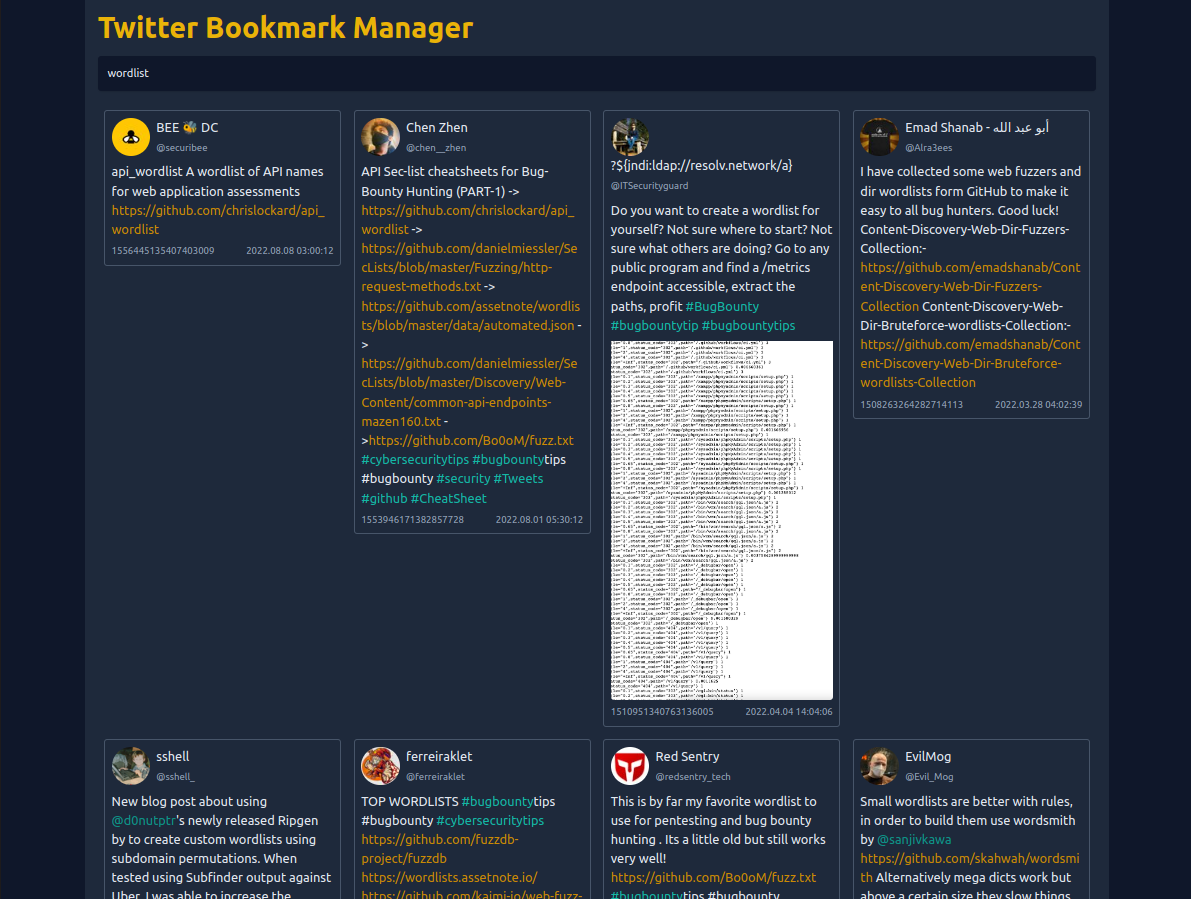
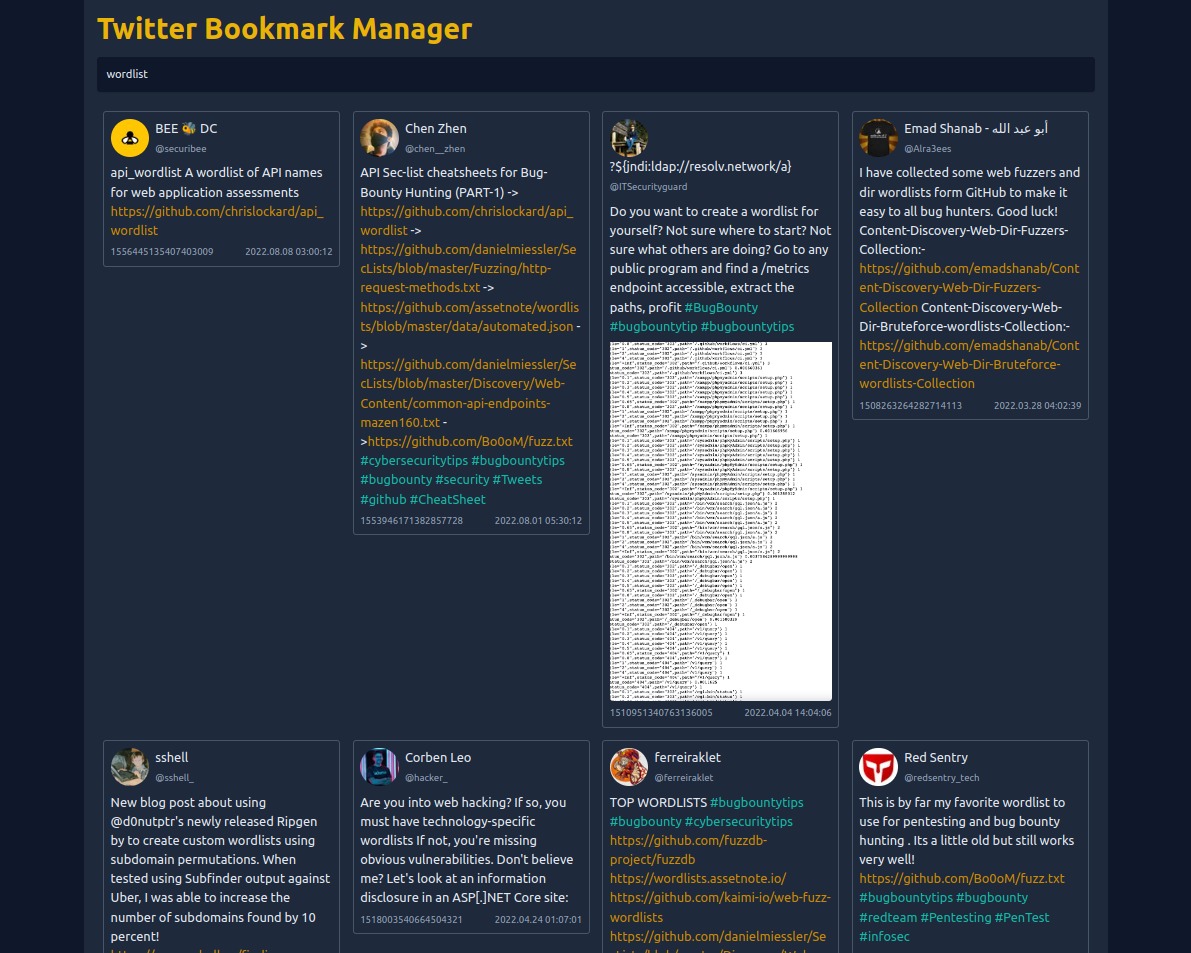
Identical Hashtag and Reference linking fixed

Changed region(s): [[0.0932, 0.1246, 0.932, 1.0], [0.0932, 0.0, 0.4039, 0.0934]]

diff --git a/public/js/app.js b/public/js/app.js
@@ -15,10 +15,10 @@
     const addTweet = (user, tweet) => {
         let content = tweet.full_text;
         tweet.entities.hashtags.map(ht => {
-            content = content.replace(`#${ht.text}`, `<a class="text-teal-500" href="https://twitter.com/hashtag/${ht.text}" target="_blank" rel="noreferrer">#${ht.text}</a>`)
+            content = content.replace(new RegExp(`#${ht.text}( |$)`), `<a class="text-teal-500" href="https://twitter.com/hashtag/${ht.text}" target="_blank" rel="noreferrer">#${ht.text}</a> `)
         }).join(" ")
         tweet.entities.user_mentions.map(ht => {
-            content = content.replace(`@${ht.screen_name}`, `<a class="text-teal-600" href="https://twitter.com/${ht.screen_name}" target="_blank" rel="noreferrer">@${ht.screen_name}</a>`)
+            content = content.replace(new RegExp(`@${ht.screen_name}( |$)`), `<a class="text-teal-600" href="https://twitter.com/${ht.screen_name}" target="_blank" rel="noreferrer">@${ht.screen_name}</a>`)
         }).join(" ")
         tweet.entities.urls.map(ht => {
             content = content.replace(`${ht.url}`, `<a class="text-yellow-600" href="${ht.expanded_url}" target="_blank" rel="noreferrer">${ht.expanded_url}</a>`)

diff --git a/CHANGELOG.md b/CHANGELOG.md
@@ -7,7 +7,7 @@ Updates should follow the [Keep a CHANGELOG](http://keepachangelog.com/) princip
 
 ## [UNRELEASED]
 ### Fixed
-- NaN
+- Identical Hashtag and Reference linking fixed
 
 ### Added
 - NaN
